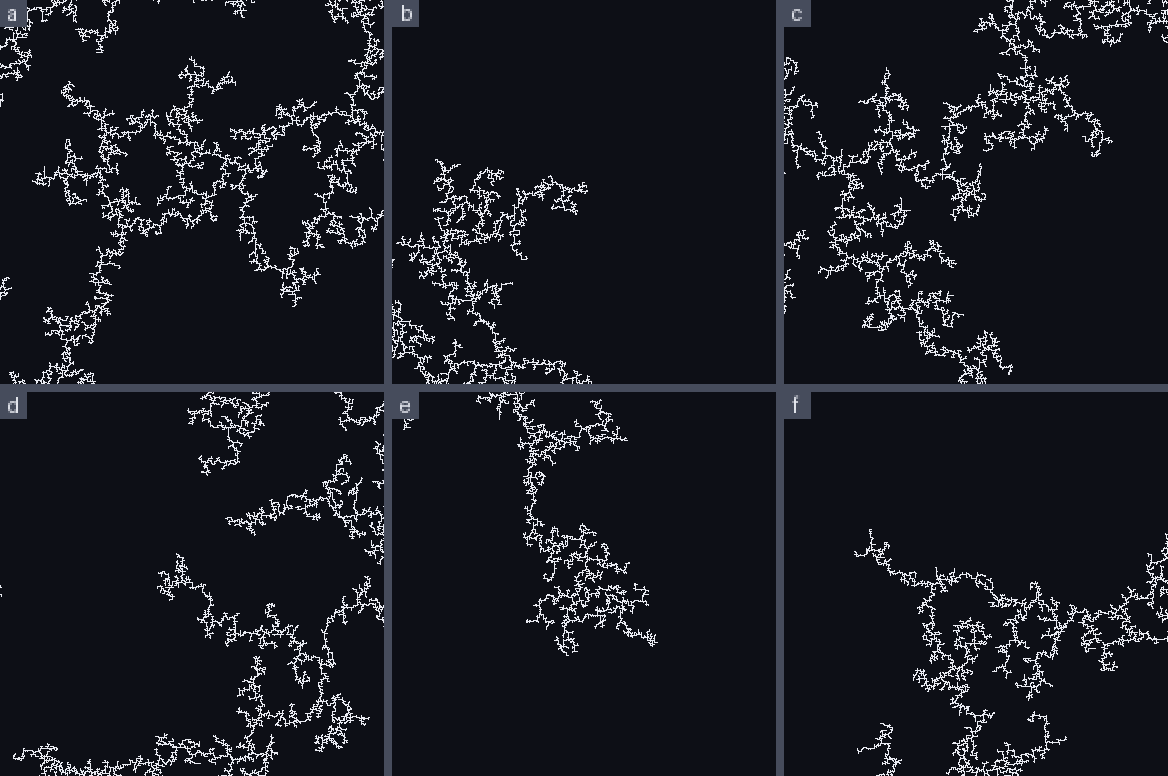
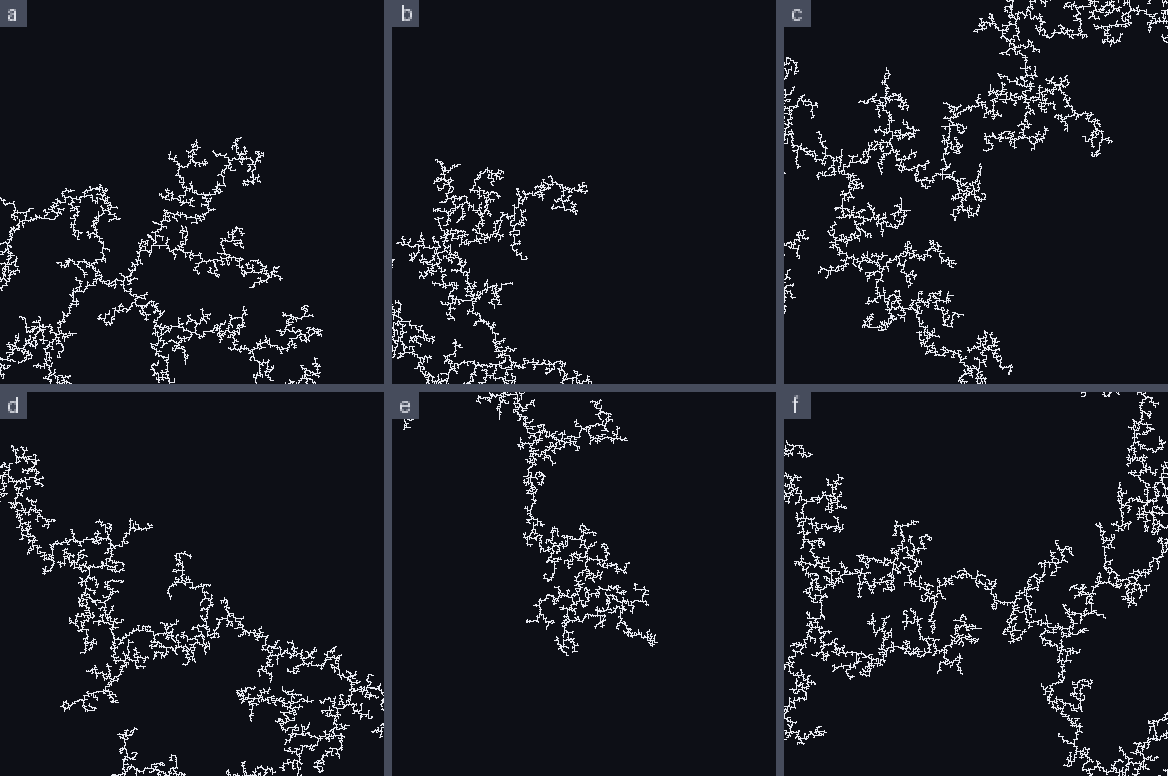
Manyomino page: zoom out with rings refined beside a strip of their own world; five-level tests
Claude-Session: https://claude.ai/code/session_016Mgc3orpnSSV7kSuftD5fz

diff --git a/static/manyomino/explain.html b/static/manyomino/explain.html
@@ -567,25 +567,26 @@ table.data th:first-child,table.data td:first-child{padding-left:0}
   <p>First it is halved. Every 2&nbsp;&times;&nbsp;2 block that holds anything becomes one square. The result is too fat, so a walk like the one used for zooming in thins it, under two rules that keep it lined up with the finer world: no square may sit more than one step from where the finer world has squares, and no place where the finer world has squares may be left with none on it or beside it. How hard the walk thins is fixed by one requirement: a polyomino seen at half the scale has 1/2.95 as many squares, so halving must divide the count by 2.95. Then the middle of the halved world is kept, a box 16 squares wide together with the 2 rows around it, and the rest is thrown away. The sampler, with that much held fixed, draws everything else afresh, for 100 moves per square.</p>
   <p>Two things can go wrong in that step, and both can be measured (520 squares of real samples). The halved shape should be an ordinary polyomino at its own scale: a real one has 61 squares within 8 of one of its squares and 117 between 8 and 16; the same shapes halved have 60 and 118. And what the sampler draws should be what was there: in the first two rows it draws afresh the halved real shape has 28.1 squares and the sampled world 27.9 (the difference, shape by shape, is -0.2&nbsp;&plusmn;&nbsp;0.4).</p>
   <p>One thing needs care. Two strands that pass within a square of each other without meeting come to touch when the world is halved. If the sampler took them for joined it would see no need to join them anywhere else, and the picture would fall into more separate pieces than a real polyomino shows. So each square of the box remembers which part of the finer world it stands for, and squares of different parts that touch do not count as joined. The sampler has to join them outside the box, as the real shape must. For the same reason a square of the box counts as joined to a square outside it only where the finer world really crosses the edge of the box between them. Real shapes do this quickly, and so do the worlds. In real samples the squares within 16 of a given square fall into 3.73 separate parts on average; within 24 squares 1.39 of them are still separate, and within 32, 1.18. The first world made from the same squares starts with 2.84 parts (a part of only two or three squares is not kept apart from what it touches) and has 1.36 and 1.13 at the matching distances (208 cells).</p>
-  <p>The picture takes from each world only a ring, from its box out to a box twice as wide. Inside the ring is the finer world&rsquo;s picture; outside it, the next world&rsquo;s. A world&rsquo;s squares are large on the screen, so its ring is drawn finer by the doubling and walk of the last section, several times over, each time with the finer picture held in place inside it. The two are joined where the finer picture&rsquo;s strands leave its edge. One square is kept in place there at every stage, on each side, and each is always among the four squares its predecessor became, so the strand and the ring meet at every stage with nothing to patch. Until the last stage those are the only joins; anything else that touches across the seam merely touches. The walk may also rework a strip up to 12 squares deep just inside the seam, so that the two sides settle against each other: a ring made with nothing outside it comes out thin and short of loose ends along its outer edge.</p>
-  <p>How close is it? For the first few levels it can be set against the real thing. Take a real sample of 1,024,000 cells and one of its cells. Give the procedure the real squares near that cell, and let it make 5 levels. At the resolution of single squares the first 4 are a picture 512 squares wide of which only the middle 32&nbsp;&times;&nbsp;32 was given, 0.4% of its area (and the outer 4 rows of that are reworked when the first level is joined on). Set it beside the real squares around the same cell, for 390 cells in 26 samples.</p>
+  <p>The picture takes from each world only a ring, from its box out to a box twice as wide. Inside the ring is the finer world&rsquo;s picture; outside it, the next world&rsquo;s. A world&rsquo;s squares are large on the screen, so its ring is drawn finer by the doubling and walk of the last section, several times over, each time with the finer picture held in place inside it. A ring drawn finer on its own comes out thin along its outer edge, where it has nothing beside it. So each ring is drawn finer together with a strip of its own world just beyond it, 2 squares deep. The strip is not shown, since the next world&rsquo;s ring belongs there. But at every stage the next ring starts from the strip&rsquo;s first 2 rows, the very squares this picture had beside it, and carries on outward with its own. Where its own strands no longer meet those rows they are joined on again by the shortest way, and as many squares are taken from loose ends close by as the join added. At the last stage the walk may also rework a strip up to 12 squares deep just inside the seam, so that the two sides settle against each other.</p>
+  <p>How close is it? For the first few levels it can be set against the real thing. Take a real sample of 1,024,000 cells and one of its cells. Give the procedure the real squares near that cell, and let it make 6 levels. At the resolution of single squares the first 5 are a picture 1024 squares wide of which only the middle 32&nbsp;&times;&nbsp;32 was given, 0.1% of its area (and the outer 4 rows of that are reworked when the first level is joined on). Set it beside the real squares around the same cell, for 390 cells in 26 samples.</p>
   <div class="scroll"><table class="data"><thead><tr><th></th><th>real</th><th>made</th><th>difference</th><th>in standard errors</th></tr></thead><tbody>
-<tr><td>squares 16&ndash;32 from the middle</td><td>352</td><td>354</td><td>+0.5%</td><td>+0.4</td></tr>
-<tr><td>squares 32&ndash;64 from the middle</td><td>1,069</td><td>1,044</td><td>-2.3%</td><td>-1.1</td></tr>
-<tr><td>squares 64&ndash;128 from the middle</td><td>3,096</td><td>3,010</td><td>-2.8%</td><td>-1.2</td></tr>
-<tr><td>squares 128&ndash;256 from the middle</td><td>8,880</td><td>9,075</td><td>+2.2%</td><td>+0.9</td></tr>
-<tr><td>empty sites beside the shape, per square (outer ring)</td><td>1.194</td><td>1.195</td><td>+0.1%</td><td>+1.9</td></tr>
-<tr><td>squares with one neighbour, per square (outer ring)</td><td>0.1691</td><td>0.1691</td><td>-0.0%</td><td>-0.3</td></tr>
-<tr><td>2&nbsp;&times;&nbsp;2 blocks, per square (outer ring)</td><td>0.0707</td><td>0.0707</td><td>-0.0%</td><td>-0.1</td></tr>
-<tr><td>joins across the first seam (16 squares out)</td><td>9.64</td><td>9.64</td><td>+0.0%</td><td>+0.0</td></tr>
-<tr><td>joins across the last seam (128 squares out)</td><td>30.3</td><td>26.9</td><td>-11.3%</td><td>-3.4</td></tr>
-<tr><td>separate pieces in the middle three quarters</td><td>15.7</td><td>16.4</td><td>+4.3%</td><td>+1.2</td></tr>
-<tr><td>share of squares in the largest piece</td><td>0.8564</td><td>0.8392</td><td>-2.0%</td><td>-1.9</td></tr>
+<tr><td>squares 16&ndash;32 from the middle</td><td>352</td><td>352</td><td>-0.1%</td><td>-0.1</td></tr>
+<tr><td>squares 32&ndash;64 from the middle</td><td>1,069</td><td>1,013</td><td>-5.3%</td><td>-2.5</td></tr>
+<tr><td>squares 64&ndash;128 from the middle</td><td>3,096</td><td>2,921</td><td>-5.7%</td><td>-2.6</td></tr>
+<tr><td>squares 128&ndash;256 from the middle</td><td>8,963</td><td>8,715</td><td>-2.8%</td><td>-1.2</td></tr>
+<tr><td>squares 256&ndash;512 from the middle</td><td>26,181</td><td>25,092</td><td>-4.2%</td><td>-1.7</td></tr>
+<tr><td>empty sites beside the shape, per square (outer ring)</td><td>1.195</td><td>1.196</td><td>+0.1%</td><td>+6.3</td></tr>
+<tr><td>squares with one neighbour, per square (outer ring)</td><td>0.1693</td><td>0.1693</td><td>-0.0%</td><td>-0.2</td></tr>
+<tr><td>2&nbsp;&times;&nbsp;2 blocks, per square (outer ring)</td><td>0.0707</td><td>0.0704</td><td>-0.4%</td><td>-2.7</td></tr>
+<tr><td>joins across the first seam (16 squares out)</td><td>9.64</td><td>9.39</td><td>-2.5%</td><td>-1.5</td></tr>
+<tr><td>joins across the last seam (256 squares out)</td><td>44.8</td><td>43.4</td><td>-3.2%</td><td>-1.0</td></tr>
+<tr><td>separate pieces in the middle three quarters</td><td>23.1</td><td>21.5</td><td>-6.7%</td><td>-2.0</td></tr>
+<tr><td>share of squares in the largest piece</td><td>0.8505</td><td>0.8465</td><td>-0.5%</td><td>-0.4</td></tr>
 </tbody></table></div>
-  <p>Of 70 such numbers, 6 differ by more than two standard errors, where chance alone would give about 4. The seams are where an earlier version went wrong: it had 4 to 11% too many squares on either side of every seam, with as many more joins across. Now, at the first two seams the rows of squares on either side and the joins across are within 3% of the real ones, none of them more than 1.0 standard errors away. At the deeper seams they fall short, by 5 to 11%, and 5 of those 6 numbers are beyond two standard errors: a ring that has been drawn finer three or four times meets the picture inside it at too few places. The number of squares in each ring is within 3% of the real one and the fine texture within 0.8%. In 390 made pictures there were 2 pieces that neither held the starting square nor reached the edge, which a real picture cannot have (a stray pair of squares each).</p>
-  <p>A list of numbers only finds the differences someone thought to list. So, as for the samples themselves, two classifiers were trained to tell made pictures from real ones and then scored on pictures from samples they had not seen. One looks at about 150 summary numbers of a whole picture, the other at 3,000 small windows of it, 9 squares wide. A classifier that has found nothing is right half the time. The first calls 55% of pictures correctly, the second 59%. Set to tell the real pictures of half the samples from those of the other half, where there is nothing to find, they score 51% and 55%. With the earlier version the first classifier was right 59% of the time, and what it had found was the seams. It still does a little better than chance, and the shortfall at the deeper seams is the likeliest reason.</p>
-  <p>Beyond those levels there is nothing real to compare with, since no sample is large enough. What can be checked is that nothing drifts. In 8 runs of 240 levels each, a zoom of 2<sup>240</sup>, started from cells of 8 different samples, a world holds 60&nbsp;&plusmn;&nbsp;1 squares in its box and 117&nbsp;&plusmn;&nbsp;2 in its ring on average; a real polyomino has 61 and 118 within the same distances of one of its squares. The amount varies a great deal from level to level, as it does from place to place in a real polyomino, but it does not creep: a straight line fitted through each run changes by +0.4&nbsp;&plusmn;&nbsp;2.0 squares in the ring per hundred levels. In the finished pictures of a run of 40 levels, once they are as fine as they get, there are 1.195 empty sites beside the shape per square in the first half and 1.195 in the second, and 0.169 and 0.169 squares with a single neighbour; real samples have 1.194 and 0.169. A level takes about 9 seconds to make on one core of a desktop machine, 4.1 of them the sampler.</p>
-  <p>Three limits should be kept in mind. A world has 16,000 squares, not infinitely many, which thins its outer parts; within the ring that is drawn the effect is under a few per cent. The halving step is an approximation: a shape halved and thinned is not exactly a polyomino drawn at random, only one with the right amount of shape in the right places as far as these counts can tell. And each ring is drawn finer by the zoom-in procedure, which is itself only tested, not proved. Two numbers in all this are set rather than derived, how hard the halving walk thins and how readily the refining walk adds, both by the one requirement that a polyomino at twice the scale has 2.95 times the squares. The sampling in between is exact.</p>
+  <p>Of 86 such numbers, 18 differ by more than two standard errors, where chance alone would give about 4. The seams are where earlier versions went wrong. The first had 4 to 11% too many squares on either side of every seam. The second drew each ring finer on its own and joined it to the picture inside only at one square per crossing; it was right at the first two seams and fell short at the deeper ones, by more the deeper, 12 to 16% at the fifth. Now the rows of squares on either side of the five seams and the joins across them are within 5% of the real ones, and none of those 15 numbers is beyond two standard errors (the furthest is 1.9 away). What is left is smaller and spread out: the rings beyond the first hold 3 to 6% fewer squares than the real ones, where the first is within 0.1%. The fine texture is within 0.8%. In 390 made pictures there were no pieces that neither held the starting square nor reached the edge, which a real picture cannot have.</p>
+  <p>A list of numbers only finds the differences someone thought to list. So, as for the samples themselves, two classifiers were trained to tell made pictures from real ones and then scored on pictures from samples they had not seen. One looks at about 150 summary numbers of a whole picture, the other at 3,000 small windows of it, 9 squares wide. A classifier that has found nothing is right half the time. The first calls 59% of pictures correctly, the second 63%. Set to tell the real pictures of half the samples from those of the other half, where there is nothing to find, they score 51% and 56%. Most of what they find is in the outermost ring: shown only the first four levels they call 56% and 55% correctly. The version before this one, put through the same five levels, was called correctly 65% and 61% of the time.</p>
+  <p>Beyond those levels there is nothing real to compare with, since no sample is large enough. What can be checked is that nothing drifts. In 8 runs of 240 levels each, a zoom of 2<sup>240</sup>, started from cells of 8 different samples, a world holds 60&nbsp;&plusmn;&nbsp;1 squares in its box and 117&nbsp;&plusmn;&nbsp;2 in its ring on average; a real polyomino has 61 and 118 within the same distances of one of its squares. The amount varies a great deal from level to level, as it does from place to place in a real polyomino, but it does not creep: a straight line fitted through each run changes by +0.4&nbsp;&plusmn;&nbsp;2.0 squares in the ring per hundred levels. In the finished pictures of a run of 40 levels, once they are as fine as they get, there are 1.195 empty sites beside the shape per square in the first half and 1.196 in the second, and 0.169 and 0.169 squares with a single neighbour; real samples have 1.195 and 0.169. A level takes about 8 seconds to make on one core of a desktop machine, 2.9 of them the sampler.</p>
+  <p>Four limits should be kept in mind. A world has 16,000 squares, not infinitely many, which thins its outer parts; within the ring that is drawn the effect is under a few per cent. The halving step is an approximation: a shape halved and thinned is not exactly a polyomino drawn at random, only one with the right amount of shape in the right places as far as these counts can tell. Each ring is drawn finer by the zoom-in procedure, which is itself only tested, not proved. And far out the picture keeps the look of single squares, which a real shape seen from that far would not: once a dot stands for a block of squares, a real shape would be drawn by how many of its squares fall in each pixel, and that is fuller and less even (in a test on real shapes, dots two to a pixel side light 78% of the pixels that the real squares light). A real zoom would go on changing for three or four levels past the point where squares can no longer be seen; this one does not. Three numbers in all this are set rather than derived, how hard the halving walk thins and how readily the refining walk adds (before its last stage, and at it), all by the one requirement that a polyomino at twice the scale has 2.95 times the squares. The sampling in between is exact.</p>
 </section>
 
 <section>
@@ -1556,7 +1557,9 @@ if (typeof module !== 'undefined') module.exports = { Refiner, nearestCell, ZOOM
 //      are not taken for joined: the sampler has to join them outside, as the finer world did.
 // A world's cells are big on the screen, so its ring (from the box out to twice the box) is refined
 // J times (a cell becomes four, then the local walk), each time with the finer level's picture held
-// fixed inside the box and joined to it.
+// fixed inside the box, and together with a strip of the same world beyond the ring, so that the
+// ring's outer rows are never refined against an edge.  The strip is not kept, but its first rows
+// are what the next level's ring starts from beside this picture, at every stage.
 // Level 0 is real cells; no picture is ever refined below real cells (there a cell just becomes
 // four).  Coordinates put the root at the origin; r is max(|x|, |y|) with -1 folded onto 0, so
 // r < R is the square of side 2R about the root.
@@ -1566,11 +1569,13 @@ if (typeof module !== 'undefined') module.exports = { Refiner, nearestCell, ZOOM
 // RULE  3: that walk adds cells only on or next to the halved shape   COVER 1: and leaves none of its sites bare
 // W     weight of a cell in that walk, times 1/lambda             PARTS 5: parts of the finer world are kept apart in the box (0: not)
 // TINY  a part of this many cells or fewer is merged with what it touches
+// HOLD  layers outside the box that the sampler holds as well
 // T     sweeps of the walk at each stage of a picture; T1 at the first stage, halving from there down to T; TL at the last stage
-// COLLAR  depth of the strip inside the seam that the walk may rework (less at the first stages: see outCollar)
-// NEAR  a join this short is made wherever ring and inside have come apart; REACH the longest join, made only if needed
-// CARRY 1: a strand grown in over the seam stays with the ring if it is all that joins two things
-const OUT = { B: 8, N: 16000, S: 100, TC: 16, RULE: 3, COVER: 1, W: 0.72, HOLD: 2, TINY: 3, T: 16, T1: 32, TL: 64, WR: 1.015, COLLAR: 12, DEEP: 3 };
+// WR    weight of a cell in the walk at a stage before the last, times 1/lambda; WL at the last stage
+// COLLAR  depth of the strip inside the seam that the walk may rework at the last stage (see outCollar)
+// MARGIN  layers of the world beyond twice the box that are refined along with the ring
+// BAND  rows outside the seam that are taken, at each stage, from the finer level's strip
+const OUT = { B: 8, N: 16000, S: 100, TC: 16, RULE: 3, COVER: 1, W: 0.72, HOLD: 2, TINY: 3, T: 16, T1: 32, TL: 64, WR: 0.985, WL: 0.9985, COLLAR: 12, MARGIN: 2, BAND: 2 };
 // the depth, in cells of stage j, of the strip inside the seam that the walk may rework: COLLAR, but never more than a quarter of the way in
 const outCollar = (P, j) => Math.min(P.COLLAR, (P.B << j) >> 2);
 const outRad = (x, y) => { const a = x < 0 ? -x - 1 : x, b = y < 0 ? -y - 1 : y; return a > b ? a : b; };
@@ -1578,7 +1583,7 @@ const outRad = (x, y) => { const a = x < 0 ? -x - 1 : x, b = y < 0 ? -y - 1 : y;
 // E: the engine's exports (after E.init); o: { J, seed, and any of OUT's fields }
 function Outgoer(E, o) {
   const P = Object.assign({}, OUT, o), B = P.B, J = P.J, G = 4 * B << J;
-  let world = null, prev = null, crossAt = null, level = 0;      // crossAt[j]: where the picture leaves its outer edge at stage j
+  let world = null, prev = null, prevLab = null, prevBand = null, crossAt = null, level = 0;      // crossAt[j]: where the picture leaves its outer edge at stage j
   E.seed(P.seed >>> 0, 0x5eed);
   const put = (at, x, y) => { new Int32Array(E.memory.buffer, E.xs() + 4 * at, x.length).set(x); new Int32Array(E.memory.buffer, E.ys() + 4 * at, y.length).set(y); };
   const get = (from, to) => ({ x: new Int32Array(E.memory.buffer, E.xs() + 4 * from, to - from).slice(), y: new Int32Array(E.memory.buffer, E.ys() + 4 * from, to - from).slice() });
@@ -1593,6 +1598,8 @@ function Outgoer(E, o) {
     world = { x: Int32Array.from(cells.x), y: Int32Array.from(cells.y), lab: null }; level = 0;
     prev = [keep(world, r => r < 2 * B)]; for (let j = 1; j <= J; j++) prev.push(twice(prev[j - 1]));
     crossAt = [crossings(world)];
+    prevLab = [pieces(prev[0], 2 * B, null).id]; prevBand = [keep(world, r => r >= 2 * B && r < 2 * B + P.BAND)];
+    for (let j = 1; j <= J; j++) { prevLab.push(Int32Array.from({ length: 4 * prevLab[j - 1].length }, (_, i) => prevLab[j - 1][i >> 2])); prevBand.push(keep(twice(prevBand[j - 1]), r => r < (2 * B << j) + P.BAND)); }
     return picture(prev[J]);
   }
   // Where the world crosses the edge of its picture (r = 2B): the cell just inside, and the way out to the cell just outside.
@@ -1675,115 +1682,113 @@ function Outgoer(E, o) {
     for (let s = 0; s < P.S; s++) { E.run(E.count()); yield; }
     world = get(0, E.count()); world.lab = new Int32Array(E.memory.buffer, E.partlabels(), world.x.length).slice(); E.parts(0); level++; info.msWorld = Date.now() - t0;
     info.parts = new Set(world.lab.filter(v => v)).size;
-    // The picture.  Stage 0 is the world's own cells out to twice the box; each stage after is twice as fine.
-    // The ring (box to twice the box) is refined as a closed region: nothing beyond it counts, and where a strand
-    // leaves it one cell on the outer edge stays put (an anchor).  Inside it is the finer level's picture, held
-    // fixed except for a collar a few cells deep just inside the seam, which the walk may rework along with the ring.
-    const st = [keep(world, r => r < 2 * B)], cross = [crossings(world)];
-    let ring = keep(world, r => r >= B && r < 2 * B), anchors = cross[0], baseLab = pinLab;
-    info.links = 0; info.loose = 0;
+    // The picture.  Stage 0 is the world's own cells; each stage after is twice as fine.  The ring (box to twice
+    // the box) is refined together with a strip of the same world beyond it (MARGIN layers), so that its outer rows
+    // have their own neighbours beside them at every stage.  Only what lies inside twice the box is kept.  Inside
+    // the ring is the finer level's picture, held; and the ring's first rows (BAND of them) are, at each stage, the
+    // very cells that picture had beside it there: the first rows of the finer level's strip at that stage.
+    const M0 = P.MARGIN, BAND = P.BAND, st = [], stLab = [], band = [], cross = [crossings(world)];
+    const withLab = (c, lab, f) => { const n = c.x.length, x = [], y = [], l = []; for (let i = 0; i < n; i++) if (f(outRad(c.x[i], c.y[i]))) { x.push(c.x[i]); y.push(c.y[i]); l.push(lab ? lab[i] : 0); } return { x: Int32Array.from(x), y: Int32Array.from(y), lab: Int32Array.from(l) }; };
+    { const k0 = withLab(world, world.lab, r => r < 2 * B); st.push({ x: k0.x, y: k0.y }); stLab.push(pieces(k0, 2 * B, k0.lab).id); band.push(keep(world, r => r >= 2 * B && r < 2 * B + BAND)); }
+    let ring = keep(world, r => r >= B && r < 2 * B + M0);
+    // where the world leaves the strip, one cell on its outer edge stays put at every stage (an anchor), so that a
+    // strand which is joined to the rest only beyond the strip cannot draw back out of it and be left on its own
+    let anchors = []; { const e = 2 * B + M0, w0 = withLab(world, world.lab, r => r < e), pw = pieces(w0, e, w0.lab), all = new Set(); for (let i = 0; i < world.x.length; i++) all.add(key(world.x[i], world.y[i]));
+      for (let i = 0; i < w0.x.length; i++) { const x = w0.x[i], y = w0.y[i]; if (outRad(x, y) === e - 1) for (const [dx, dy] of NB) if (outRad(x + dx, y + dy) === e && all.has(key(x + dx, y + dy))) anchors.push(x, y, dx, dy, pw.id[i]); } }
+    info.links = 0; info.loose = 0; info.dropped = 0; info.unjoined = 0; info.long = 0; info.taken = 0;
     for (let j = 1; j <= J; j++) {
-      const b = B << j, fine = prev[j - 1], C = outCollar(P, j), last = j === Math.min(level, J);
-      if (j > level) { st.push(twice(st[j - 1])); continue; }      // finer than real cells: a cell just becomes four
-      // Every cell of the inside carries the label of its piece: at the first stage of its part of the world's box;
-      // after that the finer picture's pieces take the labels of the pieces they refine (found by looking each cell
-      // up in the picture it came from).
-      let fineLab = baseLab;
-      if (j > 1) {
-        const pc = pieces(prev[j - 2], b >> 1), pf = pieces(fine, b), vote = new Map(), best = new Int32Array(pf.np + 1), score = new Int32Array(pf.np + 1);
-        for (let i = 0; i < fine.x.length; i++) { const k = pc.at(fine.x[i] >> 1, fine.y[i] >> 1); if (k < 0 || !baseLab[k]) continue; const v = pf.id[i] * 1048576 + baseLab[k], c = (vote.get(v) || 0) + 1; vote.set(v, c); if (c > score[pf.id[i]]) { score[pf.id[i]] = c; best[pf.id[i]] = baseLab[k]; } }
-        for (let i = 0; i < fine.x.length; i++) {                 // a small piece may have no cell over where it came from: look next door
-          if (best[pf.id[i]]) continue;
-          for (let d = 0; d < 9 && !best[pf.id[i]]; d++) { const k = pc.at((fine.x[i] >> 1) + d % 3 - 1, (fine.y[i] >> 1) + (d / 3 | 0) - 1); if (k >= 0 && baseLab[k]) best[pf.id[i]] = baseLab[k]; }
-        }
-        let fresh = 0; for (let k = 0; k < baseLab.length; k++) if (baseLab[k] > fresh) fresh = baseLab[k];
-        for (let q = 1; q <= pf.np; q++) if (!best[q]) best[q] = ++fresh;
-        fineLab = Int32Array.from(pf.id, q => best[q]);
-      }
-      // on the outer edge, one of the two cells facing out of each cell that led out stays where it is
-      const held = new Set(), next = [];
-      for (let k = 0; k < anchors.length; k += 4) {
-        const dx = anchors[k + 2], dy = anchors[k + 3], t = rnd() < 0.5 ? 0 : 1, x = dx ? 2 * anchors[k] + (dx > 0 ? 1 : 0) : 2 * anchors[k] + t, y = dy ? 2 * anchors[k + 1] + (dy > 0 ? 1 : 0) : 2 * anchors[k + 1] + t;
-        next.push(x, y, dx, dy); held.add(key(x, y));
-      }
-      // The ring's cells at this stage: the last stage's, each become four (a strand of the ring that has grown in
-      // over the seam is still the ring's; where its cells would land on the finer picture they are dropped).
-      const taken = new Uint8Array(4 * b * b); for (let i = 0; i < fine.x.length; i++) taken[(fine.y[i] + b) * 2 * b + fine.x[i] + b] = 1;
-      const r2 = keep2(twice(ring), (x, y) => outRad(x, y) >= b || !taken[(y + b) * 2 * b + x + b]), X_ = [], Y_ = [], L_ = []; let nfix = 0, maxLab = 0;
-      // Where the ring and the finer picture are joined.  The finer picture left its own outer edge at its anchors
-      // (at the first stage: wherever the finer world crosses the edge of the box).  The cell of the ring facing an
-      // anchor is the same cell seen from the other side, since the anchor of one stage lies in the four cells of
-      // the anchor before it and the ring's cell likewise.  Until the last stage the two are joined there and
-      // nowhere else, and neither cell is taken away; whatever else touches across the seam only touches.  Where
-      // the halved world kept no cell at a crossing the ring has none facing the anchor, and the strand ends there.
-      const facing = new Set(), anchored = new Set(), fa = crossAt[j - 1], fx_ = [], fy_ = [], have = new Set();
-      for (let i = 0; i < r2.x.length; i++) have.add(key(r2.x[i], r2.y[i]));
-      for (let k = 0; k < fa.length; k += 4) { const u = fa[k] + fa[k + 2], v = fa[k + 1] + fa[k + 3], kk = key(u, v); anchored.add(key(fa[k], fa[k + 1])); if (facing.has(kk) || held.has(kk)) continue;
-        if (!have.has(kk)) { info.loose++; continue; } facing.add(kk); fx_.push(u); fy_.push(v); }
-      const pinned = c => !last && anchored.has(c);
-      // the cells in order: the finer picture short of the collar; the cells that stay (the ring's anchors and, before
-      // the last stage, the cells facing the finer picture's anchors and those anchors); the collar; the rest of the ring
+      const b = B << j, R = 2 * b + (M0 << j), fine = prev[j - 1], fineLab = prevLab[j - 1], last = j === Math.min(level, J), C = last ? outCollar(P, j) : 0;
+      if (j > level) { st.push(twice(st[j - 1])); stLab.push(Int32Array.from({ length: 4 * stLab[j - 1].length }, (_, i) => stLab[j - 1][i >> 2])); band.push(keep(twice(band[j - 1]), r => r < 2 * b + BAND)); continue; }      // finer than real cells: a cell just becomes four
+      const own = keep(twice(ring), r => r >= b + BAND), bandIn = prevBand[j - 1], held = new Map(), nextA = [];
+      for (let k = 0; k < anchors.length; k += 5) { const dx = anchors[k + 2], dy = anchors[k + 3], t = rnd() < 0.5 ? 0 : 1, x = dx ? 2 * anchors[k] + (dx > 0 ? 1 : 0) : 2 * anchors[k] + t, y = dy ? 2 * anchors[k + 1] + (dy > 0 ? 1 : 0) : 2 * anchors[k + 1] + t;
+        if (!held.has(key(x, y))) { nextA.push(x, y, dx, dy, anchors[k + 4]); held.set(key(x, y), anchors[k + 4]); } }
+      anchors = nextA;
+      // the cells in order: the finer picture short of the collar, and the anchors (fixed); the collar (the last stage only); the band; the rest
+      const X_ = [], Y_ = [], L_ = [];
       for (let i = 0; i < fine.x.length; i++) if (outRad(fine.x[i], fine.y[i]) < b - C - 1) { X_.push(fine.x[i]); Y_.push(fine.y[i]); L_.push(fineLab[i]); }
       const ndeep = X_.length;                                   // these have nothing beside them that the walk could change
       for (let i = 0; i < fine.x.length; i++) if (outRad(fine.x[i], fine.y[i]) === b - C - 1) { X_.push(fine.x[i]); Y_.push(fine.y[i]); L_.push(fineLab[i]); }
-      for (let i = 0; i < r2.x.length; i++) if (held.has(key(r2.x[i], r2.y[i]))) { X_.push(r2.x[i]); Y_.push(r2.y[i]); L_.push(0); }
-      if (!last) { for (let i = 0; i < fx_.length; i++) { X_.push(fx_[i]); Y_.push(fy_[i]); L_.push(0); }
-        for (let i = 0; i < fine.x.length; i++) if (outRad(fine.x[i], fine.y[i]) >= b - C && pinned(key(fine.x[i], fine.y[i]))) { X_.push(fine.x[i]); Y_.push(fine.y[i]); L_.push(fineLab[i]); } }
-      nfix = X_.length;
-      for (let i = 0; i < fine.x.length; i++) if (outRad(fine.x[i], fine.y[i]) >= b - C && !pinned(key(fine.x[i], fine.y[i]))) { X_.push(fine.x[i]); Y_.push(fine.y[i]); L_.push(fineLab[i]); }
-      if (last) for (let i = 0; i < fx_.length; i++) { X_.push(fx_[i]); Y_.push(fy_[i]); L_.push(0); }
-      for (let i = 0; i < r2.x.length; i++) if (!held.has(key(r2.x[i], r2.y[i])) && !facing.has(key(r2.x[i], r2.y[i]))) { X_.push(r2.x[i]); Y_.push(r2.y[i]); L_.push(0); }
+      const nK = X_.length; for (let i = 0; i < own.x.length; i++) if (held.has(key(own.x[i], own.y[i]))) { X_.push(own.x[i]); Y_.push(own.y[i]); L_.push(0); }
+      const nfix = X_.length;
+      for (let i = 0; i < fine.x.length; i++) if (outRad(fine.x[i], fine.y[i]) >= b - C) { X_.push(fine.x[i]); Y_.push(fine.y[i]); L_.push(fineLab[i]); }
+      const nIn = X_.length;
+      for (let i = 0; i < bandIn.x.length; i++) { X_.push(bandIn.x[i]); Y_.push(bandIn.y[i]); L_.push(0); }
+      for (let i = 0; i < own.x.length; i++) if (!held.has(key(own.x[i], own.y[i]))) { X_.push(own.x[i]); Y_.push(own.y[i]); L_.push(0); }
+      // Behind the band the ring's own cells (the last stage's, each become four) may have lost what joined them to
+      // it.  What is joined to what is put back as it was in the world: all pieces that hold anchors of one piece of
+      // the world (within the strip) are joined to each other, after every piece that holds no anchor has been
+      // joined to whatever is nearest.  A join is the shortest way through empty sites outside the seam; smallest pieces first.
+      { const n0 = X_.length, pa = pieces({ x: X_, y: Y_ }, R, last ? null : L_), up = Array.from({ length: pa.np + 1 }, (_, a) => a), find = a => { while (up[a] !== a) a = up[a] = up[up[a]]; return a; };
+        const size = new Int32Array(pa.np + 1), inner = new Uint8Array(pa.np + 1), mem = Array.from({ length: pa.np + 1 }, () => []), cls = new Int32Array(pa.np + 1);   // cls: the piece of the world a group belongs to (0: not known)
+        const cu = new Map(), cfind = a => { let r = a; while (cu.has(r) && cu.get(r) !== r) r = cu.get(r); return r; };      // two pieces of the world that have come to touch count as one
+        for (let i = 0; i < n0; i++) { const q = pa.id[i]; size[q]++; mem[q].push(i); if (i < nK || (i >= nfix && i < nIn)) inner[q] = 1;
+          if (i >= nK && i < nfix) { const c = cfind(held.get(key(X_[i], Y_[i]))); if (!cls[q]) cls[q] = c; else if (cfind(cls[q]) !== c) cu.set(c, cfind(cls[q])); } }
+        const classOf = g => cls[g] ? cfind(cls[g]) : 0;
+        const added = new Map(), dead = new Uint8Array(n0);
+        const compAt = (u, v) => { const c = pa.at(u, v); if (c >= 0 && !dead[c]) return pa.id[c]; const a = added.get(key(u, v)); return a === undefined ? 0 : a; };   // (a join may pass over a site whose cell was taken)
+        const merge = (a, b_) => { a = find(a); b_ = find(b_); if (a === b_) return; const ca = classOf(a), cb = classOf(b_); up[a] = b_; if (!cb) cls[b_] = ca; else if (ca && ca !== cb) cu.set(ca, cb); };
+        // join group q to the nearest cell of another group for which ok(group) holds
+        const join = (q, ok, most) => {
+          const seen = new Map(), qx = [], qy = []; let h = 0, hit = -1, other = 0; const root = find(q);
+          for (let g = 1; g <= pa.np; g++) if (find(g) === root) for (const i of mem[g]) if (!dead[i] && outRad(X_[i], Y_[i]) >= b - 1) { qx.push(X_[i]); qy.push(Y_[i]); seen.set(key(X_[i], Y_[i]), -1); }
+          const nsrc = qx.length;
+          while (h < qx.length && hit < 0 && qx.length < nsrc + 2000000) { const x = qx[h], y = qy[h];
+            for (const [dx, dy] of NB) { const u = x + dx, v = y + dy, kk = key(u, v), c = compAt(u, v);
+              if (c) { if (h >= nsrc && find(c) !== root && ok(find(c))) { hit = h; other = c; break; } continue; }
+              const r = outRad(u, v); if (seen.has(kk) || r < b || r >= R) continue;
+              seen.set(kk, h); qx.push(u); qy.push(v); }
+            h++; }
+          if (hit < 0) return 0;
+          { let len = 0; for (let w = hit; w >= nsrc; w = seen.get(key(qx[w], qy[w]))) len++; if (len > most) return -1; info.loose++; if (len >= 9) info.long++; }
+          for (let w = hit; w >= nsrc; w = seen.get(key(qx[w], qy[w]))) { added.set(key(qx[w], qy[w]), q); X_.push(qx[w]); Y_.push(qy[w]); L_.push(0); info.links++;
+            for (const [dx, dy] of NB) { const c = compAt(qx[w] + dx, qy[w] + dy); if (c) merge(c, q); } }
+          merge(other, q);
+          // The join has added cells; as many are taken from loose ends close by, so that joins leave the number of cells
+          // as it was (the walk thins what it is given by a factor, to no target, so cells added here would stay).
+          // (for each cell of the join, a cell at the same distance from the root, give or take a row, so that the count
+          // in each row stays what it was; the nearest such cell)
+          for (let w = hit; w >= nsrc; w = seen.get(key(qx[w], qy[w]))) { const px = qx[w], py = qy[w], pr = outRad(px, py); let got = false;
+            for (let slack = 1; slack <= 4 && !got; slack *= 2) for (let D = 2; D <= 64 && !got; D *= 2)
+              for (let v = py - D; v <= py + D && !got; v++) for (let u = px - D; u <= px + D && !got; u++) { const c = pa.at(u, v); if (c < nIn || dead[c] || Math.abs(outRad(u, v) - pr) > slack) continue;
+                // a cell with one neighbour, or the corner of a full block of four with nothing else beside it, can go (not one that a join ends at)
+                let deg = 0, sib = 0; for (const [dx, dy] of NB) if (compAt(u + dx, v + dy)) { if (added.has(key(u + dx, v + dy))) deg = 9; deg++; if (((u + dx) >> 1) === (u >> 1) && ((v + dy) >> 1) === (v >> 1)) sib++; }
+                if (deg === 1 || (deg === 2 && sib === 2 && compAt(u ^ 1, v ^ 1))) { dead[c] = 1; info.taken++; got = true; } } }
+          return 1; };
+        const bySize = []; for (let q = 1; q <= pa.np; q++) bySize.push(q); bySize.sort((u, v) => size[u] - size[v]);
+        // 1: the pieces with no anchor, to whatever is nearest.  (A small piece of the ring's own cells that would
+        // need a long join, and that nothing has been joined to, is dropped instead.)
+        const alone = q => { const r = find(q); for (let g = 1; g <= pa.np; g++) if (g !== q && find(g) === r) return false; return !added.size || ![...added.values()].some(a => find(a) === r); };
+        for (const q of bySize) { if (classOf(find(q))) continue;
+          let live = 0, all = 0; { const r = find(q); for (let g = 1; g <= pa.np; g++) if (find(g) === r) for (const i of mem[g]) if (!dead[i]) { all++; if (g === q) live++; } } if (!all) continue;
+          const small = !inner[q] && alone(q), r = join(q, () => true, small ? Math.max(8, size[q] >> 1) : 1e9);
+          if (r > 0) continue;
+          if (small) { for (const i of mem[q]) dead[i] = 1; info.dropped += live; } else info.unjoined++; }
+        // 2: then the pieces of one piece of the world, to each other: all but the largest, smallest first
+        for (const tried = new Set(); ;) { const sz = new Map(), byClass = new Map(); let did = false;
+          for (let g = 1; g <= pa.np; g++) { const r = find(g); sz.set(r, (sz.get(r) || 0) + size[g]); }
+          for (const [r, n] of sz) { const c = classOf(r); if (!c) continue; if (!byClass.has(c)) byClass.set(c, []); byClass.get(c).push([n, r]); }
+          for (const [, list] of byClass) { if (list.length < 2) continue; list.sort((u, v) => u[0] - v[0]);
+            for (let k = 0; k < list.length - 1; k++) { const r = list[k][1]; if (find(r) !== r || tried.has(r)) continue; tried.add(r); const c = classOf(r);
+              if (join(r, g => classOf(g) === c, 1e9) > 0) did = true; else info.unjoined++; } }
+          if (!did) break; }
+        if (info.dropped || info.taken) { let m = 0; for (let i = 0; i < X_.length; i++) if (i >= n0 || !dead[i]) { X_[m] = X_[i]; Y_[m] = Y_[i]; L_[m++] = L_[i]; } X_.length = Y_.length = L_.length = m; } }
+      if (P.onStage) P.onStage(level, j, 'start', { x: X_, y: Y_ }, { x: own.x, y: own.y }, bandIn);
       E.clear(); put(0, X_, Y_); E.place(X_.length);
-      for (let i = 0; i < L_.length; i++) if (L_[i] > maxLab) maxLab = L_[i];
-      new Int32Array(E.memory.buffer, E.partlabels(), L_.length).set(L_); E.hold(-b, -b, b, b, 1); E.parts(4);
-      E.unmark(); if (!last) for (let i = 0; i < fx_.length; i++) E.flag(fx_[i], fy_[i]);
-      // Pieces of the finer picture that carry one label (they refine one piece) are joined to each other by the
-      // shortest way through empty sites inside.
-      { const pa = pieces({ x: X_, y: Y_ }, 2 * b, L_), up = Array.from({ length: pa.np + 1 }, (_, a) => a), find = a => { while (up[a] !== a) a = up[a] = up[up[a]]; return a; };
-        const size = new Int32Array(pa.np + 1), lists = new Map();
-        for (let i = 0; i < L_.length; i++) { if (!L_[i]) continue; const q = pa.id[i]; size[q]++; let l = lists.get(L_[i]); if (!l) lists.set(L_[i], l = []); if (!l.includes(q)) l.push(q); }
-        for (const [lab, l] of lists) {
-          l.sort((u, v) => size[v] - size[u]);
-          for (let t = 1; t < l.length; t++) {
-            // breadth first from the smaller piece through empty sites inside, to a cell of the same label (or of the ring) that is joined to the largest
-            const q = l[t], seen = new Map(), qx = [], qy = []; let h = 0, hit = -1;
-            if (find(q) === find(l[0])) continue;
-            for (let k = 0; k < L_.length; k++) if (pa.id[k] === q) { qx.push(X_[k]); qy.push(Y_[k]); seen.set(key(X_[k], Y_[k]), -1); }
-            while (h < qx.length && hit < 0 && qx.length < 60000) { const x = qx[h], y = qy[h];
-              for (const [dx, dy] of NB) { const u = x + dx, v = y + dy, kk = key(u, v); if (seen.has(kk) || outRad(u, v) >= b) continue; const c = pa.at(u, v);
-                if (c >= 0) { if (find(pa.id[c]) === find(l[0]) && (!L_[c] || L_[c] === lab)) { hit = h; break; } continue; }
-                seen.set(kk, h); qx.push(u); qy.push(v); }
-              h++; }
-            if (hit >= 0) { for (let w = hit; w >= 0 && seen.get(key(qx[w], qy[w])) !== -1; w = seen.get(key(qx[w], qy[w]))) info.links += E.add(qx[w], qy[w], lab); up[find(q)] = find(l[0]); }
-          }
-        } }
-      // The walk.  Before the last stage it heeds the labels: two pieces of the inside that only touch are not joined,
-      // and the ring is joined to the inside only at the marked cells, so that it cannot come to rely on a touch that
-      // the next stage, which puts the inside in afresh, would undo.  The ring may grow in over the seam only DEEP
-      // cells.  The last stage that is not finer than real cells sets the fine texture and gets more sweeps; its
-      // picture is the one that stays, so there the walk needs no labels: whatever touches at the end is joined,
-      // and the walk by itself never parts what is joined.  (With labels a real ring beside a real inside does
-      // not keep its counts: the collar ends 2% short and the two rows outside the seam 3% over.  Without, it
-      // keeps them to half a percent.)
-      E.parts(last ? 0 : 4); if (!last) { E.strict(1); E.deep(P.DEEP); }
-      E.shadow(0, last ? 1 : P.WR);                             // (the weight of a cell, in units of 1/lambda)
-      E.pin(nfix, b - C, 2 * b); E.idle(ndeep);
+      // The walk.  Before the last stage the inside is fixed and keeps the labels of its pieces: two of them that
+      // only touch are not joined, so the ring cannot come to rely on that touch; the ring is joined to whatever it
+      // touches.  The last stage that is not finer than real cells sets the fine texture and gets more sweeps; there
+      // a collar of the inside is free as well and nothing has a label: whatever touches at the end is joined.
+      if (!last) { new Int32Array(E.memory.buffer, E.partlabels(), L_.length).set(L_); E.hold(-b, -b, b, b, 1); E.parts(4); }
+      E.shadow(0, last ? P.WL : P.WR);                             // (the weight of a cell, in units of 1/lambda)
+      E.pin(nfix, b - C, R); E.idle(ndeep);
       for (let q = 4 * (last ? Math.max(P.TL, P.T1 >> (j - 1)) : Math.max(P.T, P.T1 >> (j - 1))); q > 0; q--) { E.relax(1); yield; }
-      const got = get(0, E.count()), gl = new Int32Array(E.memory.buffer, E.partlabels(), E.count()).slice(); E.parts(0);
-      // The ring from here on: what lies outside the seam, and the strands of it that have grown in over the seam
-      // (cells inside with none of the inside's labels, joined to the ring through such cells).
-      if (!last) { const n = got.x.length, kind = new Uint8Array(n), ga = pieces(got, 2 * b);        // 1 ring, 2 inside, 3 a strand grown in
-        for (let i = 0; i < n; i++) kind[i] = outRad(got.x[i], got.y[i]) >= b ? 1 : gl[i] > 0 && gl[i] <= maxLab ? 2 : 3;
-        const stays = new Uint8Array(n), stack = new Int32Array(n); let top = 0;
-        for (let i = 0; i < n; i++) if (kind[i] === 1) stack[top++] = i;
-        while (top) { const a = stack[--top]; for (const [dx, dy] of NB) { const k = ga.at(got.x[a] + dx, got.y[a] + dy); if (k >= 0 && kind[k] === 3 && !stays[k]) { stays[k] = 1; stack[top++] = k; } } }
-        const rx = [], ry = [];
-        for (let i = 0; i < n; i++) if (kind[i] === 1 || stays[i]) { rx.push(got.x[i]); ry.push(got.y[i]); }
-        ring = { x: Int32Array.from(rx), y: Int32Array.from(ry) }; }
-      st.push(got);
-      anchors = next; cross[j] = next; baseLab = fineLab;
+      const got = get(0, E.count()), gl = last ? null : new Int32Array(E.memory.buffer, E.partlabels(), E.count()).slice(); E.parts(0);
+      if (P.onStage) P.onStage(level, j, 'end', got);
+      const k1 = withLab(got, gl, r => r < 2 * b);
+      st.push({ x: k1.x, y: k1.y }); stLab.push(pieces(k1, 2 * b, last ? null : k1.lab).id); band.push(keep(got, r => r >= 2 * b && r < 2 * b + BAND));
+      ring = keep(got, r => r >= b);
     }
-    prev = st; crossAt = cross; info.ms = Date.now() - t0;
+    prev = st; prevLab = stLab; prevBand = band; crossAt = cross; info.ms = Date.now() - t0;
     const pic = picture(st[J]); pic.info = info; return pic;
   }
   function next() { const g = work(); for (;;) { const r = g.next(); if (r.done) return r.value; } }
